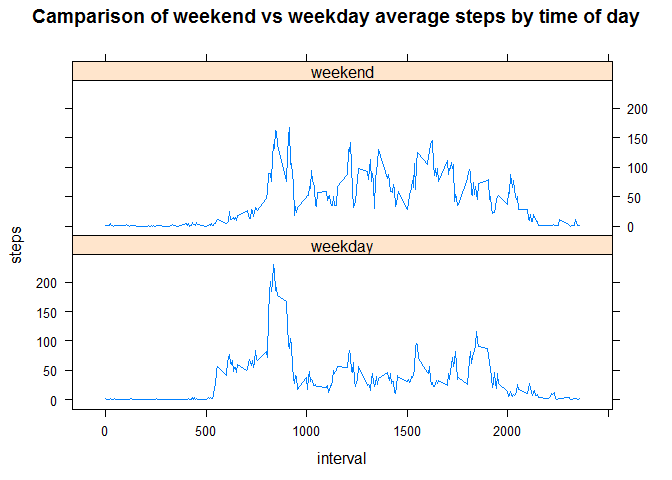
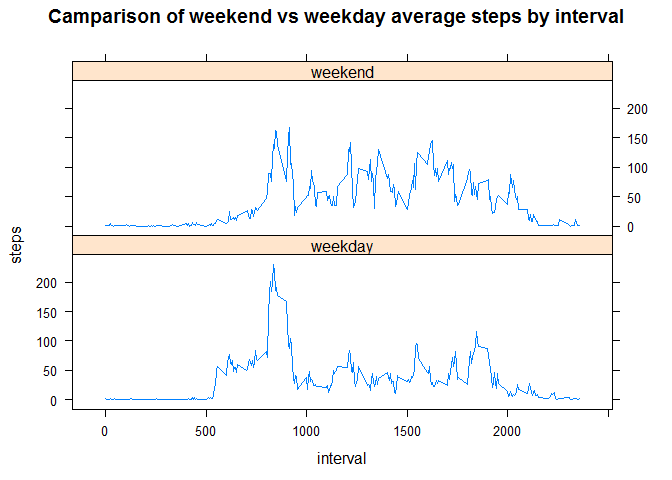
bolded answers to questions

Changed region(s): [[0.0312, 0.0, 0.9688, 0.0625]]

diff --git a/PA1_template.html b/PA1_template.html
@@ -104,7 +104,7 @@ stepsInterval$newIntervals &lt;- strptime(sprintf(&quot;%04d&quot;, as.numeric(s
 <ol start="2" style="list-style-type: decimal">
 <li>Devise a strategy for filling in all of the missing values in the dataset. The strategy does not need to be sophisticated. For example, you could use the mean/median for that day, or the mean for that 5-minute interval, etc.</li>
 </ol>
-<p>I will replace missing values with the mean for that 5-minute interval.</p>
+<p><strong>I will replace missing values with the mean for that 5-minute interval.</strong></p>
 <p>3.Create a new dataset that is equal to the original dataset but with the missing data filled in.</p>
 <pre class="r"><code>newdf &lt;- activity
 for (i in 1:nrow(activity)) {
@@ -123,7 +123,7 @@ hist(totalstepsnewdf$steps, xlab = &quot;Total Steps&quot;, ylab = &quot;Frequen
 <pre><code>## [1] 10766.19</code></pre>
 <pre class="r"><code>median(totalstepsnewdf$steps)</code></pre>
 <pre><code>## [1] 10766.19</code></pre>
-<p>The impact of imputing missing data with the interval mean is a change to the median, but not the mean (as the mean is simply incremented by values equal to itself. Had the median been used to impute, the median would be the same and the mean would have changed).</p>
+<p><strong>The impact of imputing missing data with the interval mean is a change to the median, but not the mean (as the mean is simply incremented by values equal to itself. Had the median been used to impute, the median would be the same and the mean would have changed).</strong></p>
 </div>
 <div id="are-there-differences-in-activity-patterns-between-weekdays-and-weekends" class="section level2">
 <h2>Are there differences in activity patterns between weekdays and weekends?</h2>
@@ -138,8 +138,8 @@ newdf$day &lt;- as.factor(newdf$day)    </code></pre>
 </ol>
 <pre class="r"><code>library(lattice)
 stepsintervalweekend = aggregate(steps~interval + day, data = newdf, mean)
-xyplot(steps~interval | day, data = stepsintervalweekend, type = &quot;l&quot;, layout = c(1,2), main = &quot;Camparison of weekend vs weekday average steps by time of day&quot;)</code></pre>
[1 lines of base64/hex data omitted]
+xyplot(steps~interval | day, data = stepsintervalweekend, type = &quot;l&quot;, layout = c(1,2), main = &quot;Camparison of weekend vs weekday average steps by interval&quot;)</code></pre>
[1 lines of base64/hex data omitted]
 </div>
 
 

diff --git a/PA1_template.md b/PA1_template.md
@@ -82,7 +82,7 @@ sum(is.na(activity))
 
 2. Devise a strategy for filling in all of the missing values in the dataset. The strategy does not need to be sophisticated. For example, you could use the mean/median for that day, or the mean for that 5-minute interval, etc.
 
-I will replace missing values with the mean for that 5-minute interval.
+**I will replace missing values with the mean for that 5-minute interval.**
 
 3.Create a new dataset that is equal to the original dataset but with the missing data filled in.
 
@@ -122,7 +122,7 @@ median(totalstepsnewdf$steps)
 ```
 ## [1] 10766.19
 ```
-The impact of imputing missing data with the interval mean is a change to the median, but not the mean (as the mean is simply incremented by values equal to itself. Had the median been used to impute, the median would be the same and the mean would have changed).
+**The impact of imputing missing data with the interval mean is a change to the median, but not the mean (as the mean is simply incremented by values equal to itself. Had the median been used to impute, the median would be the same and the mean would have changed).**
 
 ## Are there differences in activity patterns between weekdays and weekends?
 1. Create a new factor variable in the dataset with two levels - "weekday" and "weekend" indicating whether a given date is a weekday or weekend day.
@@ -139,7 +139,7 @@ newdf$day <- as.factor(newdf$day)
 ```r
 library(lattice)
 stepsintervalweekend = aggregate(steps~interval + day, data = newdf, mean)
-xyplot(steps~interval | day, data = stepsintervalweekend, type = "l", layout = c(1,2), main = "Camparison of weekend vs weekday average steps by time of day")
+xyplot(steps~interval | day, data = stepsintervalweekend, type = "l", layout = c(1,2), main = "Camparison of weekend vs weekday average steps by interval")
 ```
 
 ![](PA1_template_files/figure-html/weekendinterval-1.png) 
